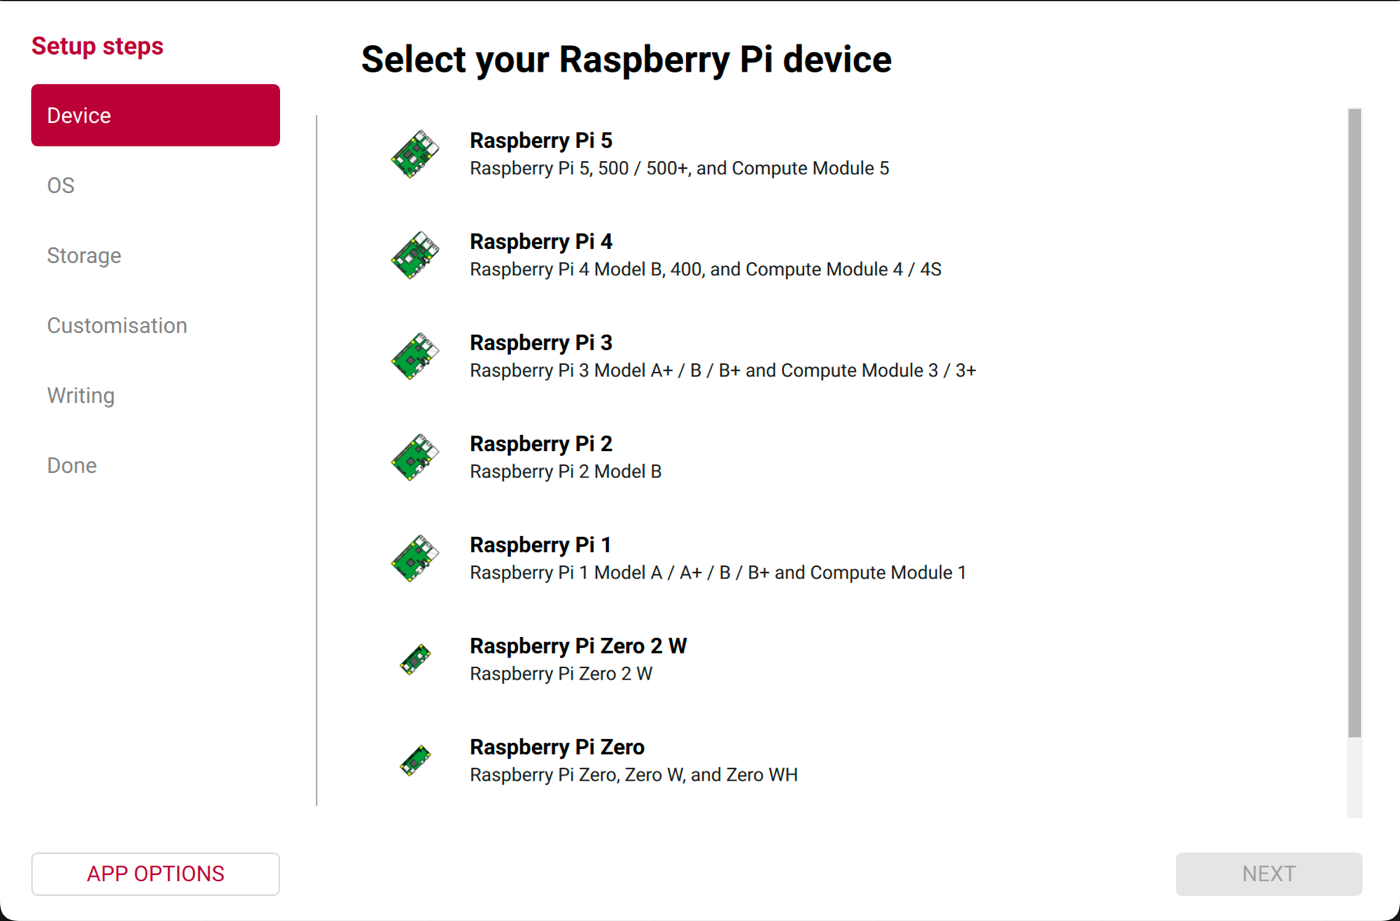
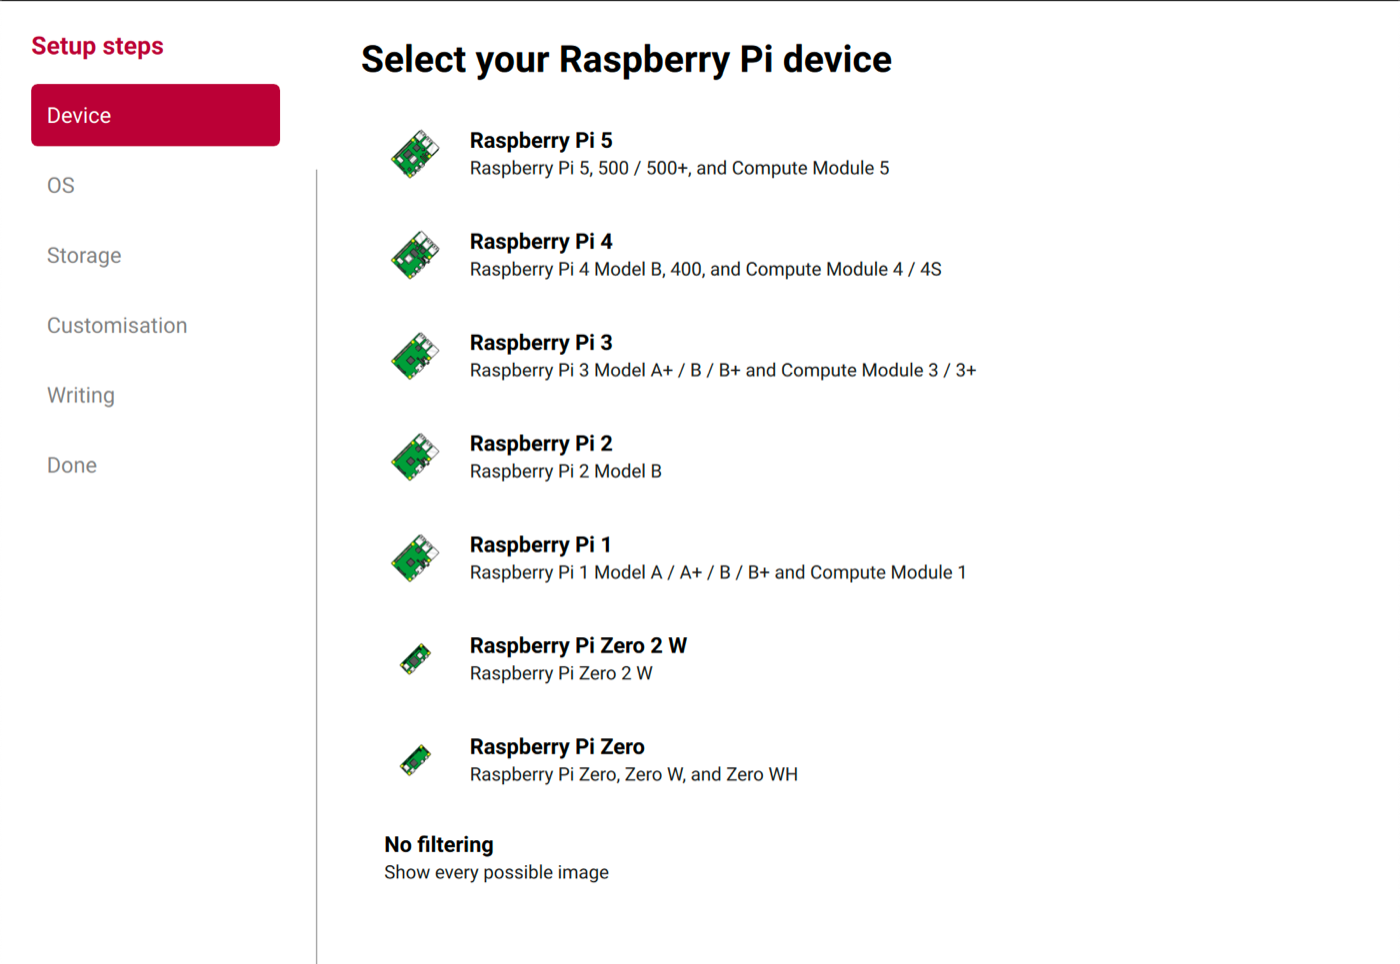
Imager guide: pick No filtering on the device step
The device list has to be scrolled to the bottom and 'No filtering - Show
every possible image' selected. Any other model works as well, except
Raspberry Pi 5, which only accepts 64-bit images and therefore hides these
32-bit ARM builds. Screenshot shows the full list down to that entry.

diff --git a/docs/SmartPI/OS/SmartPi_RPi_Imager.md b/docs/SmartPI/OS/SmartPi_RPi_Imager.md
@@ -74,13 +74,16 @@ It is regenerated with every release, so the menu always offers the newest image
     rpi-imager --repo https://yumi-lab.github.io/SmartPi-armbian/os_list.json
     ```
 
-## 3. Skip the device step
+## 3. On the device step, choose "No filtering"
 
-Imager opens on **"Select your Raspberry Pi device"**. That page exists to filter the Raspberry Pi catalogue — it has **no effect on our images**, which carry no device tag and are listed whatever you pick.
+Imager opens on **"Select your Raspberry Pi device"**. **Scroll to the bottom of the list** and select **No filtering — Show every possible image**, then click **NEXT**.
 
-![The device step in Raspberry Pi Imager](/img/SmartPi/OS/rpi-imager-device.png)
+![Choosing No filtering at the bottom of the device list](/img/SmartPi/OS/rpi-imager-device.png)
 
-Leave it as it is and click **NEXT**. Depending on your version and on what Imager has already cached, this page shows the Raspberry Pi models, a *No filtering* entry, or nothing at all — none of it changes what comes next. You land on the image list either way.
+!!! warning "Not Raspberry Pi 5"
+    Any other entry in that list works too — the Smart Pi One images show up all the same. **Raspberry Pi 5 is the exception**: pick it and the image list comes up without our images, because a Pi 5 only takes 64-bit images and the Smart Pi One is 32-bit ARM. *No filtering* keeps you out of that trap.
+
+If your copy of Imager shows an empty list on this page, there is nothing to choose — click **NEXT** and carry on.
 
 ## 4. Choose your image
 
